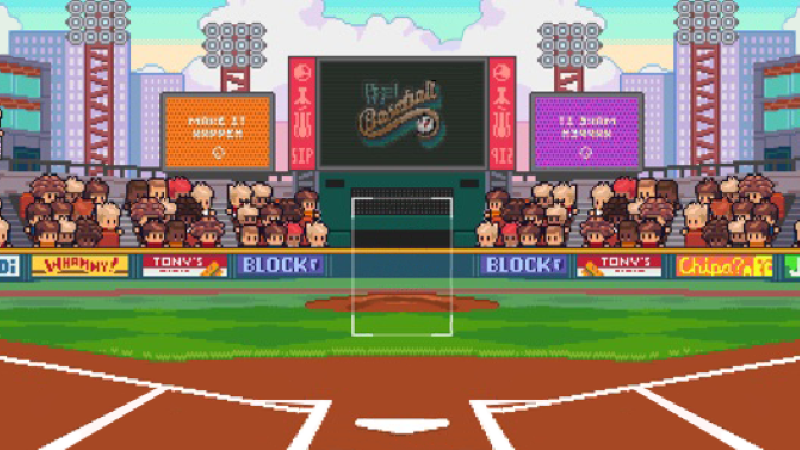
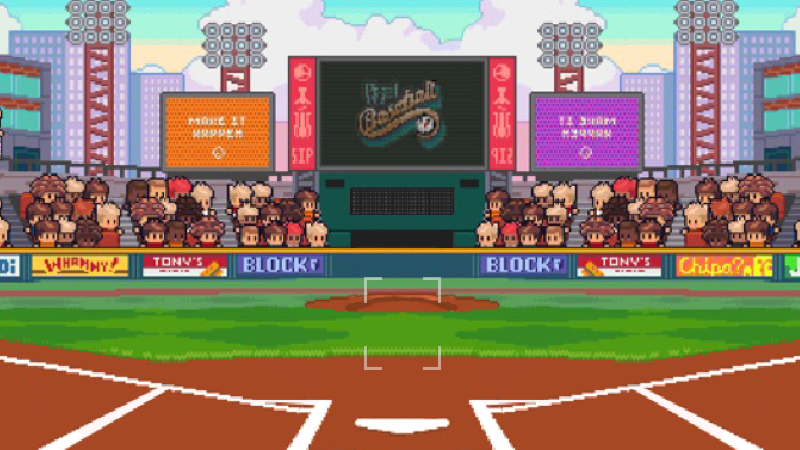
커브 추가

Changed region(s): [[0.375, 0.4356, 0.5938, 0.84]]

diff --git a/ball_curve.py b/ball_curve.py
@@ -1,0 +1,181 @@
+from pico2d import *
+import math
+
+# 캔버스 열기
+ground_width, ground_height = 800, 450
+open_canvas(ground_width, ground_height)
+# load image
+ground = load_image('ground_fielder.png')
+pitcher = load_image('pitcher_test.png')
+ball = load_image('ball.png')
+
+# 시작 여부
+running = True
+start_pitching = False
+draw_fast_ball = False
+
+# 초기 위치
+initial_ball_x, initial_ball_y = (380, 200)
+
+target_positions_strike = [
+    (380, 150),  # 1
+    (405, 150),  # 2
+    (430, 150),  # 3
+    (380, 125),  # 4
+    (405, 125),  # 5
+    (430, 125),  # 6
+    (380, 90),   # 7
+    (405, 90),   # 8
+    (430, 90)   # 9
+]
+
+target_positions_ball = [
+    (350, 180),  # a
+    (405, 180),  # b
+    (470, 180),  # c
+    (350, 125),  # d
+    (465, 125),  # e
+    (350, 50),  # f
+    (405, 50),   # g
+    (470, 50)    # h
+]
+
+ball_x, ball_y = initial_ball_x, initial_ball_y
+pitcher_x, pitcher_y = 400, 200
+
+# 초기 속도
+speed = 5
+
+# 프레임
+ball_frame = 0
+ball_frame_count = 8
+
+# 딜레이
+ball_delay = 0.02
+
+# 초기 크기
+ball_size = 15
+
+# 목표 위치
+target_x, target_y = 0, 0
+
+# 베지에 곡선 변수
+bezier_t = 0.0
+bezier_points = []
+
+# 핸들 이벤트
+def handle_events():
+    global running, start_pitching, ball_x, ball_y, ball_size
+
+    events = get_events()
+    for event in events:
+        if event.type == SDL_QUIT:
+            running = False
+        elif event.type == SDL_KEYDOWN:
+            if event.key == SDLK_ESCAPE:
+                running = False
+            elif event.key in [SDLK_1, SDLK_2, SDLK_3, SDLK_4, SDLK_5, SDLK_6, SDLK_7, SDLK_8, SDLK_9]:
+                target_index = int(event.key - SDLK_1)
+                set_target_position(target_index)
+            elif event.key in [SDLK_a, SDLK_b, SDLK_c, SDLK_d, SDLK_e, SDLK_f, SDLK_g, SDLK_h]:
+                target_index = int(event.key - SDLK_a)
+                set_target_position(target_index, is_strike=False)
+
+
+def get_bezier_point(p0, p1, p2, p3, t):
+    # 베지에 곡선을 계산하는 함수
+    u = 1 - t
+    tt = t * t
+    uu = u * u
+    uuu = uu * u
+    ttt = tt * t
+
+    p = uuu * p0
+    p += 3 * uu * t * p1
+    p += 3 * u * tt * p2
+    p += ttt * p3
+
+    return p
+
+def set_target_position(index, is_strike=True):
+    global start_pitching, ball_x, ball_y, ball_size, bezier_t
+
+    if not start_pitching:
+        start_pitching = True
+        ball_x, ball_y = initial_ball_x, initial_ball_y
+        ball_size = 15  # 초기 크기로 되돌림
+        bezier_t = 0.0
+
+        if is_strike:
+            set_target(target_positions_strike[index])
+        else:
+            set_target(target_positions_ball[index])
+
+
+def set_target(target):
+    global target_x, target_y, bezier_points
+
+    target_x, target_y = target
+    # 초기 공에서 목표 지점까지의 베지어 곡선 좌표 계산
+    bezier_points.clear()
+    for t in range(0, 101):
+        bezier_t = t / 100.0
+        x = get_bezier_point(initial_ball_x, target_x, target_x, target_x, bezier_t)
+        y = get_bezier_point(initial_ball_y, initial_ball_y, target_y, target_y, bezier_t)
+        bezier_points.append((x, y))
+
+
+# 애니메이션 재생
+def draw():
+    global ball_frame, start_pitching, ball_delay, ball_frame_count, ball_x, ball_y, ball_size
+
+    clear_canvas()
+    ground.draw(ground_width // 2, ground_height // 2)
+    pitcher.draw(pitcher_x, pitcher_y, 100, 100)
+    if start_pitching and bezier_t <= 1.0:
+        # 볼을 그릴 때 크기를 적용
+        ball.draw(ball_x, ball_y, ball_size, ball_size)
+        ball_size += 0.1
+    update_canvas()
+
+# 업데이트 함수에서 목표 지점에 도달하면 애니메이션 종료
+def update():
+    global start_pitching, ball_frame, ball_frame_count, ball_x, ball_y, target_x, target_y, speed, bezier_t
+
+    if start_pitching and bezier_t <= 1.0:
+        elapsed_time = get_time()
+
+        if elapsed_time > ball_delay:
+            ball_frame = (ball_frame + 1) % ball_frame_count
+
+            # 베지어 곡선 좌표 계산
+            index = int(bezier_t * 100)
+            target_x, target_y = bezier_points[index]
+
+            # 벡터 길이 계산
+            dir_x = target_x - ball_x
+            dir_y = target_y - ball_y
+
+            # 벡터 길이가 0이 아닌 경우에만 정규화하고 속도 벡터 계산
+            length = math.sqrt(dir_x ** 2 + dir_y ** 2)
+            if length != 0:
+                dir_x /= length
+                dir_y /= length
+
+                # 현재 위치에서 목표 위치로 이동
+                ball_x += dir_x * speed
+                ball_y += dir_y * speed
+
+            # 목표 위치에 도달하면 애니메이션 종료
+            bezier_t += 0.01
+            if bezier_t > 1.0:
+                start_pitching = False
+
+    delay(0.001)
+
+while running:
+    handle_events()
+    draw()
+    update()
+
+close_canvas()
